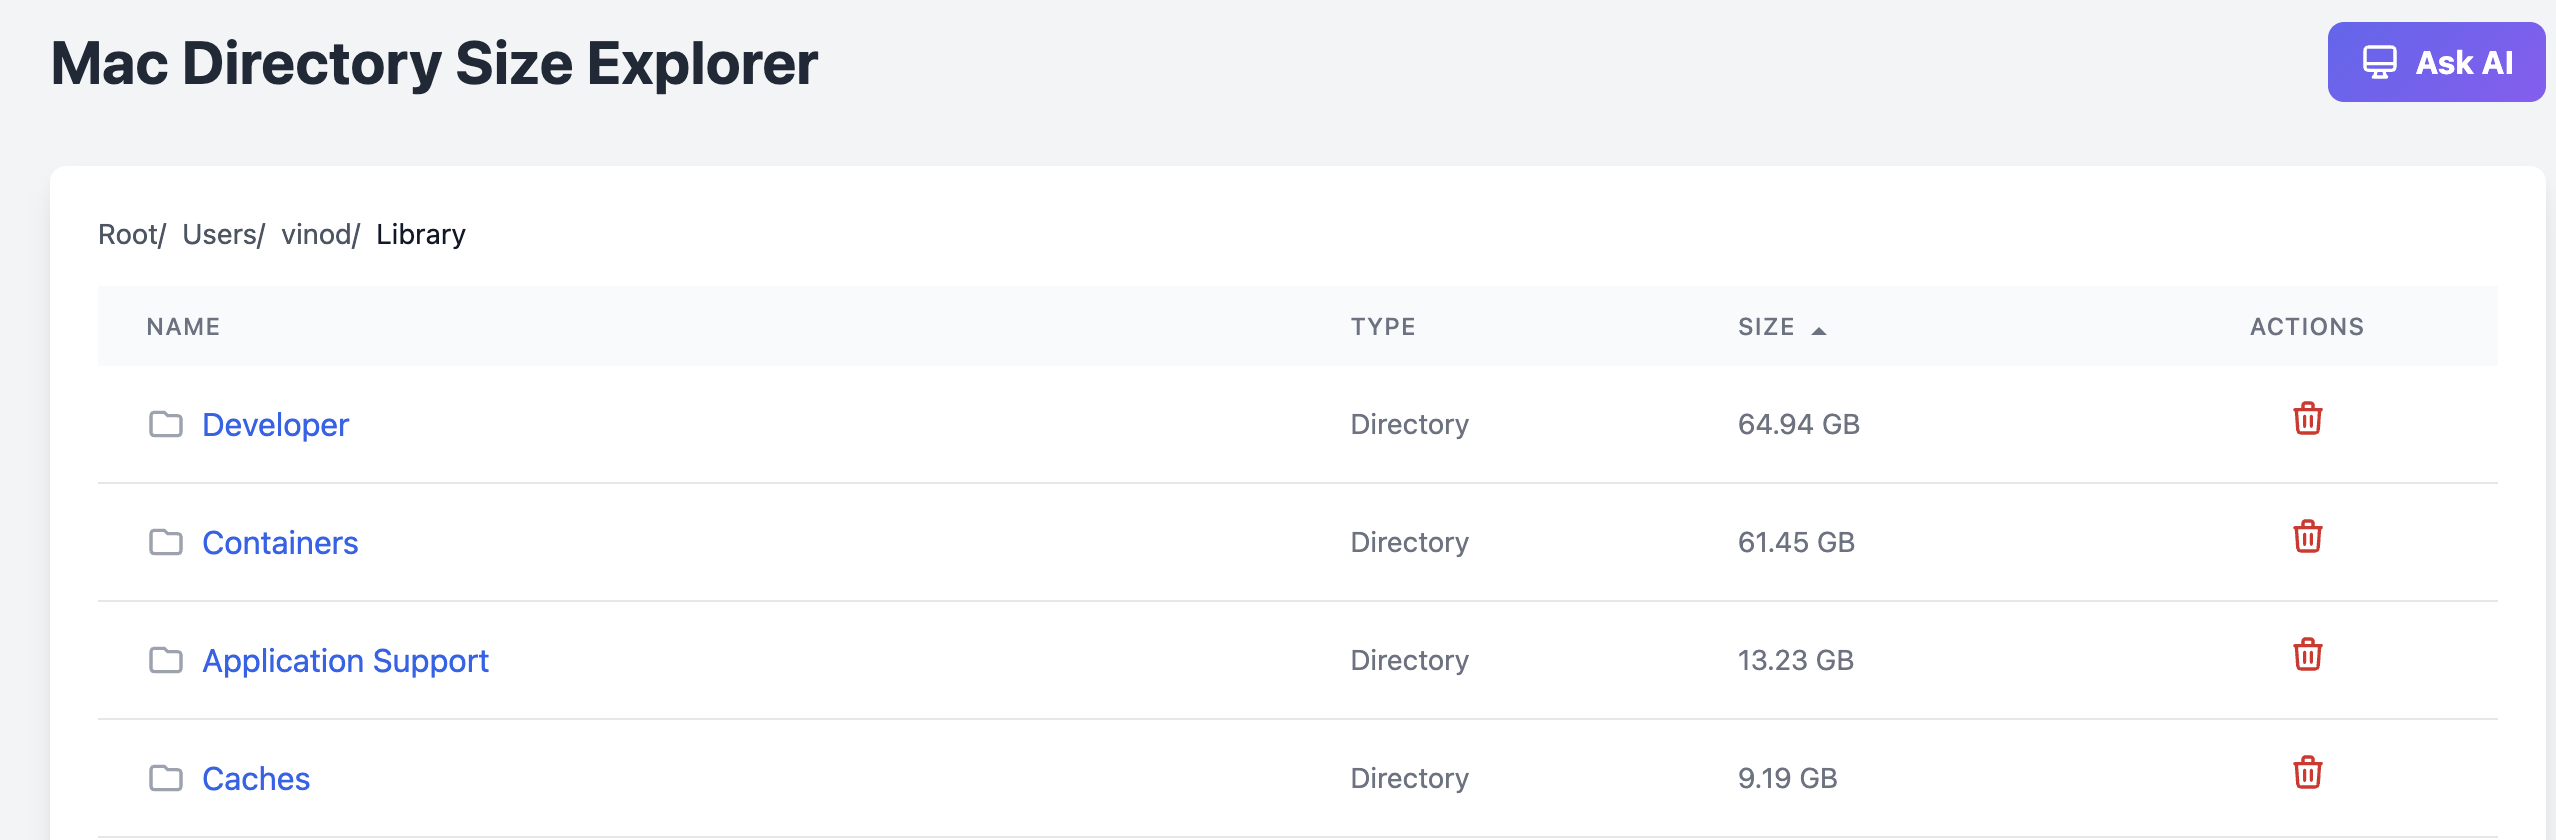
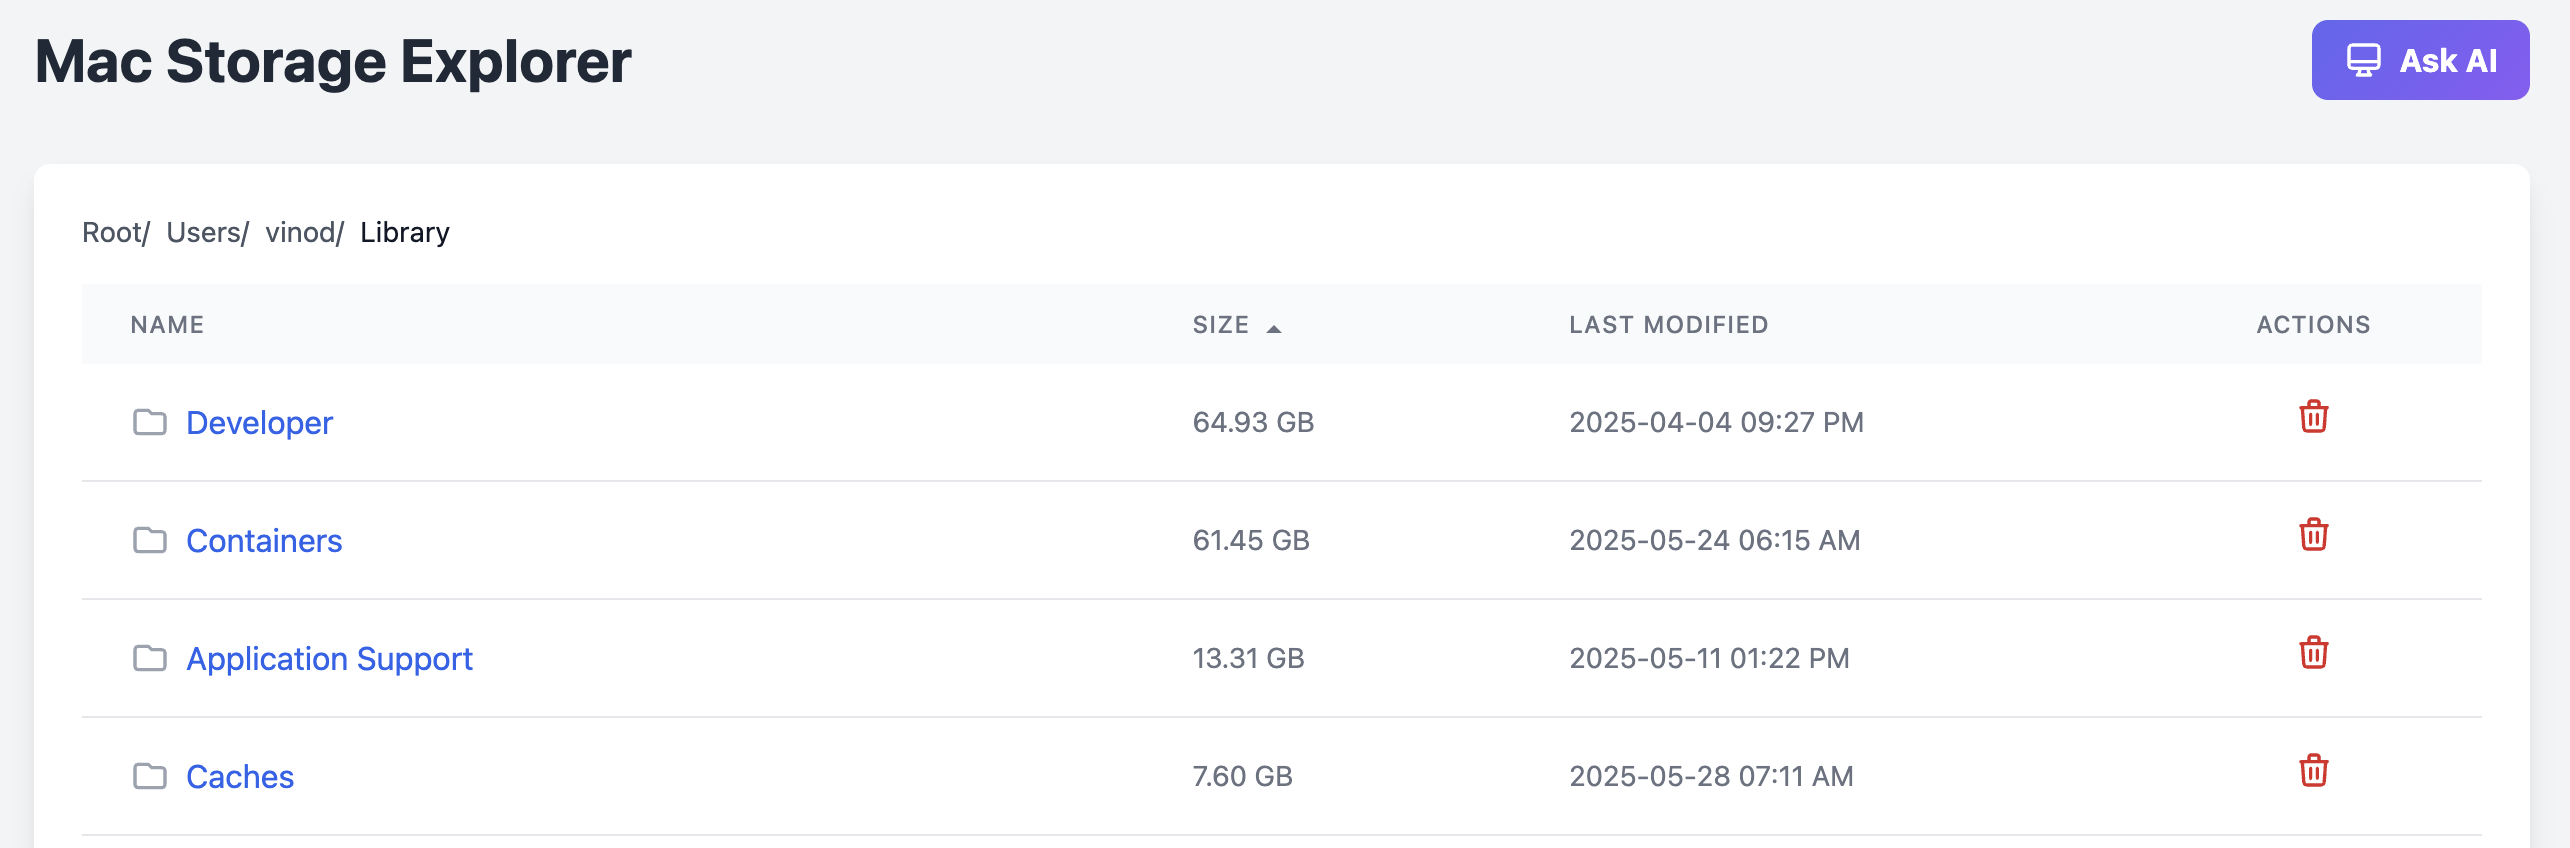
feat: image change

diff --git a/templates/index.html b/templates/index.html
@@ -292,7 +292,7 @@
     <div id="initialLoading" class="initial-loading">
         <div class="loading-content">
             <div class="loading-spinner"></div>
-            <div class="loading-text">Loading Directory Explorer...</div>
+            <div class="loading-text">Loading Storage Explorer...</div>
         </div>
     </div>
 
